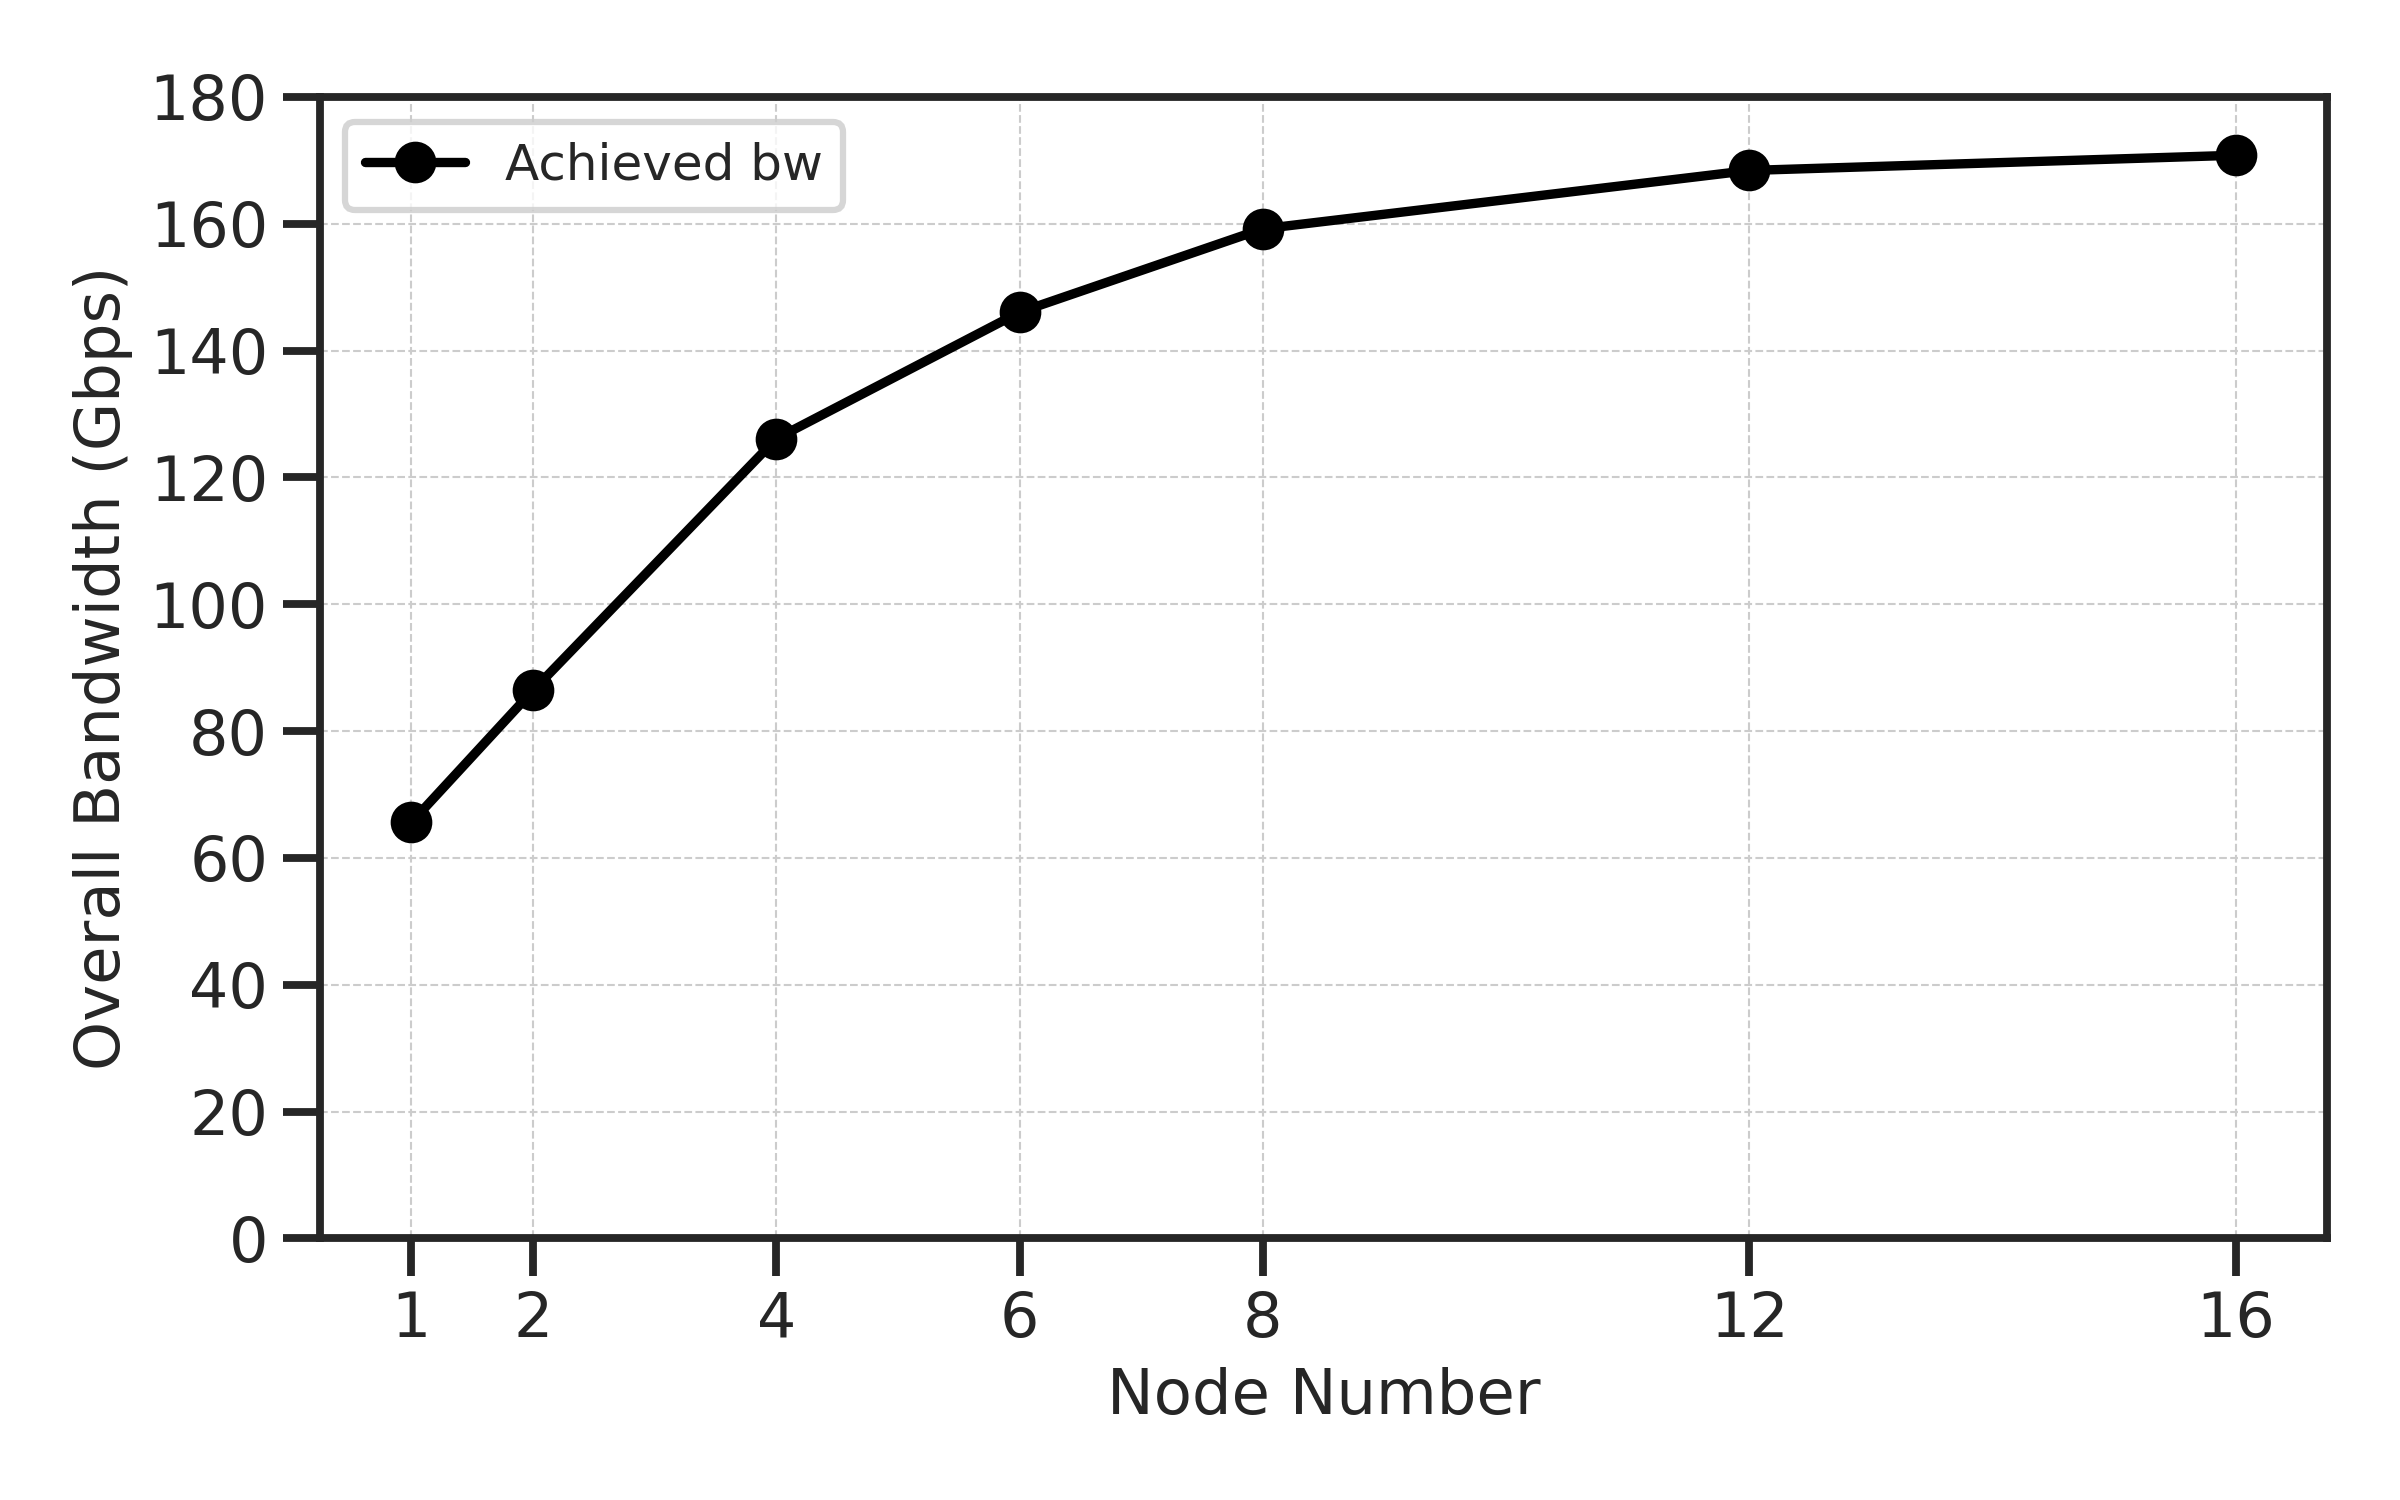
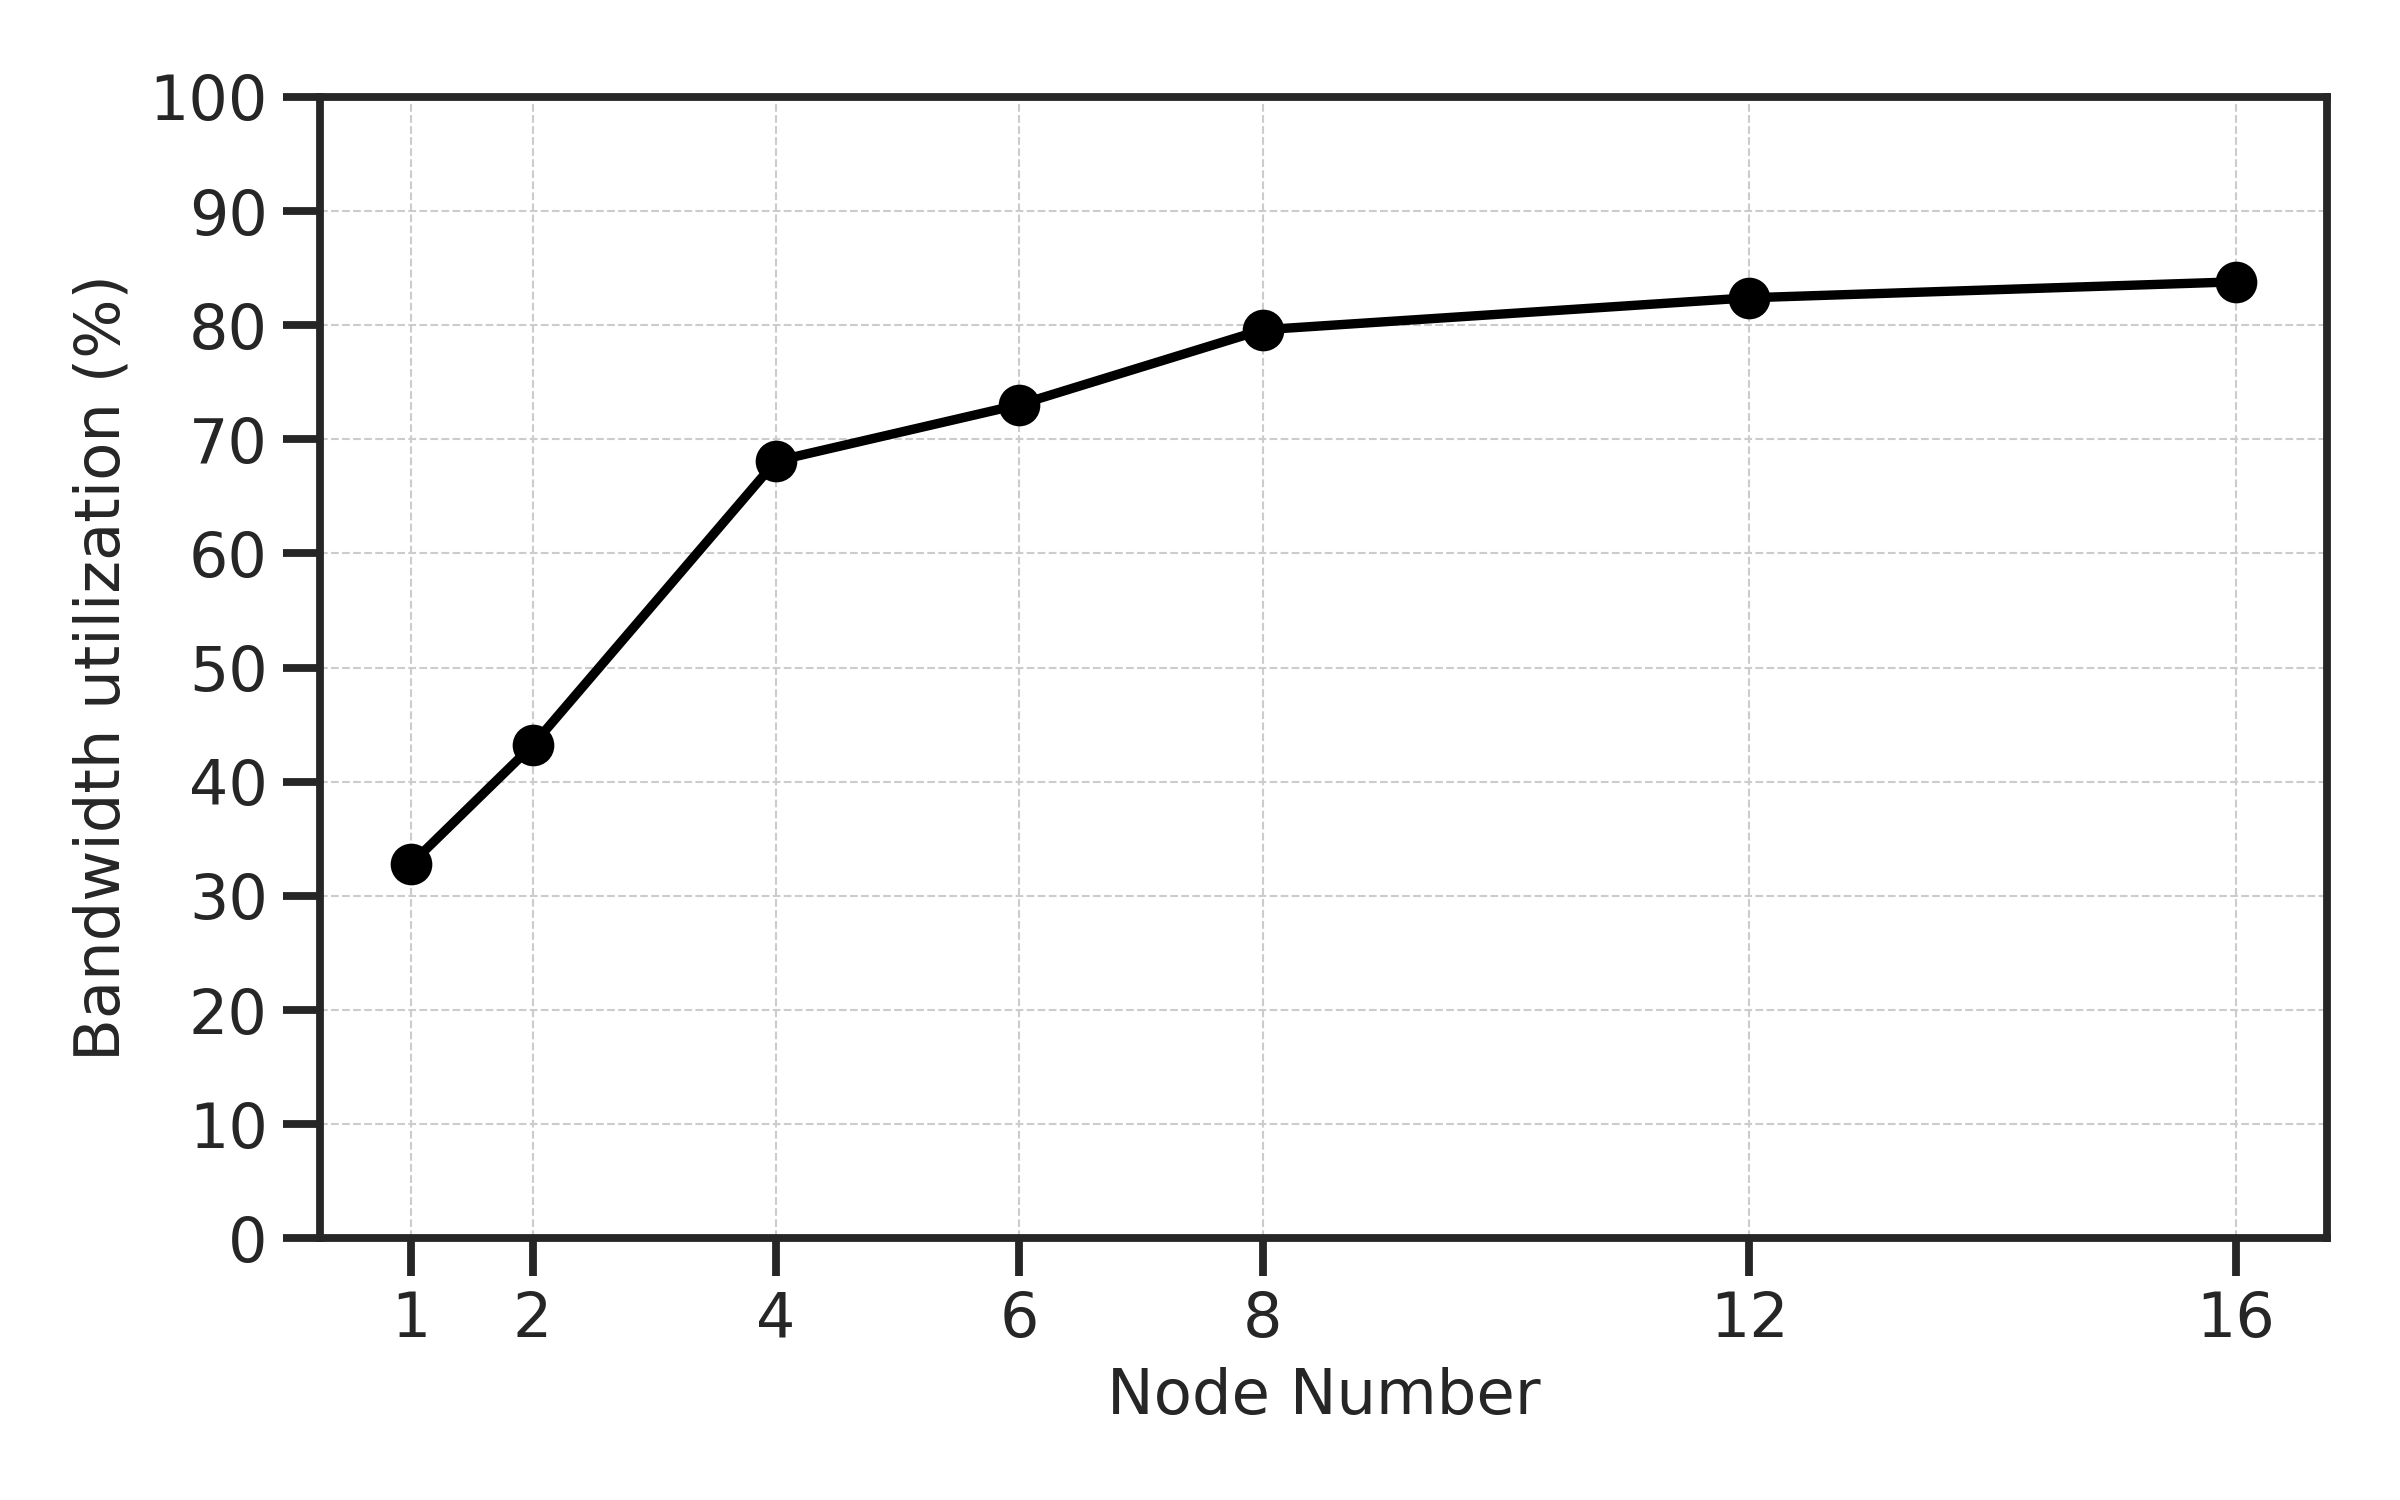
update

diff --git a/README.md b/README.md
@@ -6,13 +6,13 @@ A computational laminography reconstruction framework with remote memoization.
 ## Convergence
 ![Convergence](./images/curve.png)
 
-The convergence is tested with the (1k,1k,1k) dataset and tau = 0.95. No additional iteration for convergence is required.
+The convergence is tested with the (1k,1k,1k) dataset and $\tau$ = 0.95. No additional iteration for convergence is required.
 
 
 ## Bandwidth 
 ![Bandwidth](./images/bandwidth_vs_node_number.png).
 
-The bandwidth is test with (1k,1k,1k) dataset reconstruction and 1-16 nodes connected by slingshot11. Each node is equipped with a single AMD EPYC 7543P processor featuring 32 Zen3 cores (64 hardware threads) operating at 2.8 GHz. 
+The bandwidth is test with (1k,1k,1k) dataset reconstruction and 1-16 nodes connected by slingshot11(Max Bandwidth 200Gbps). Each node is equipped with a single AMD EPYC 7543P processor featuring 32 Zen3 cores (64 hardware threads) operating at 2.8 GHz. 
 
 
 
